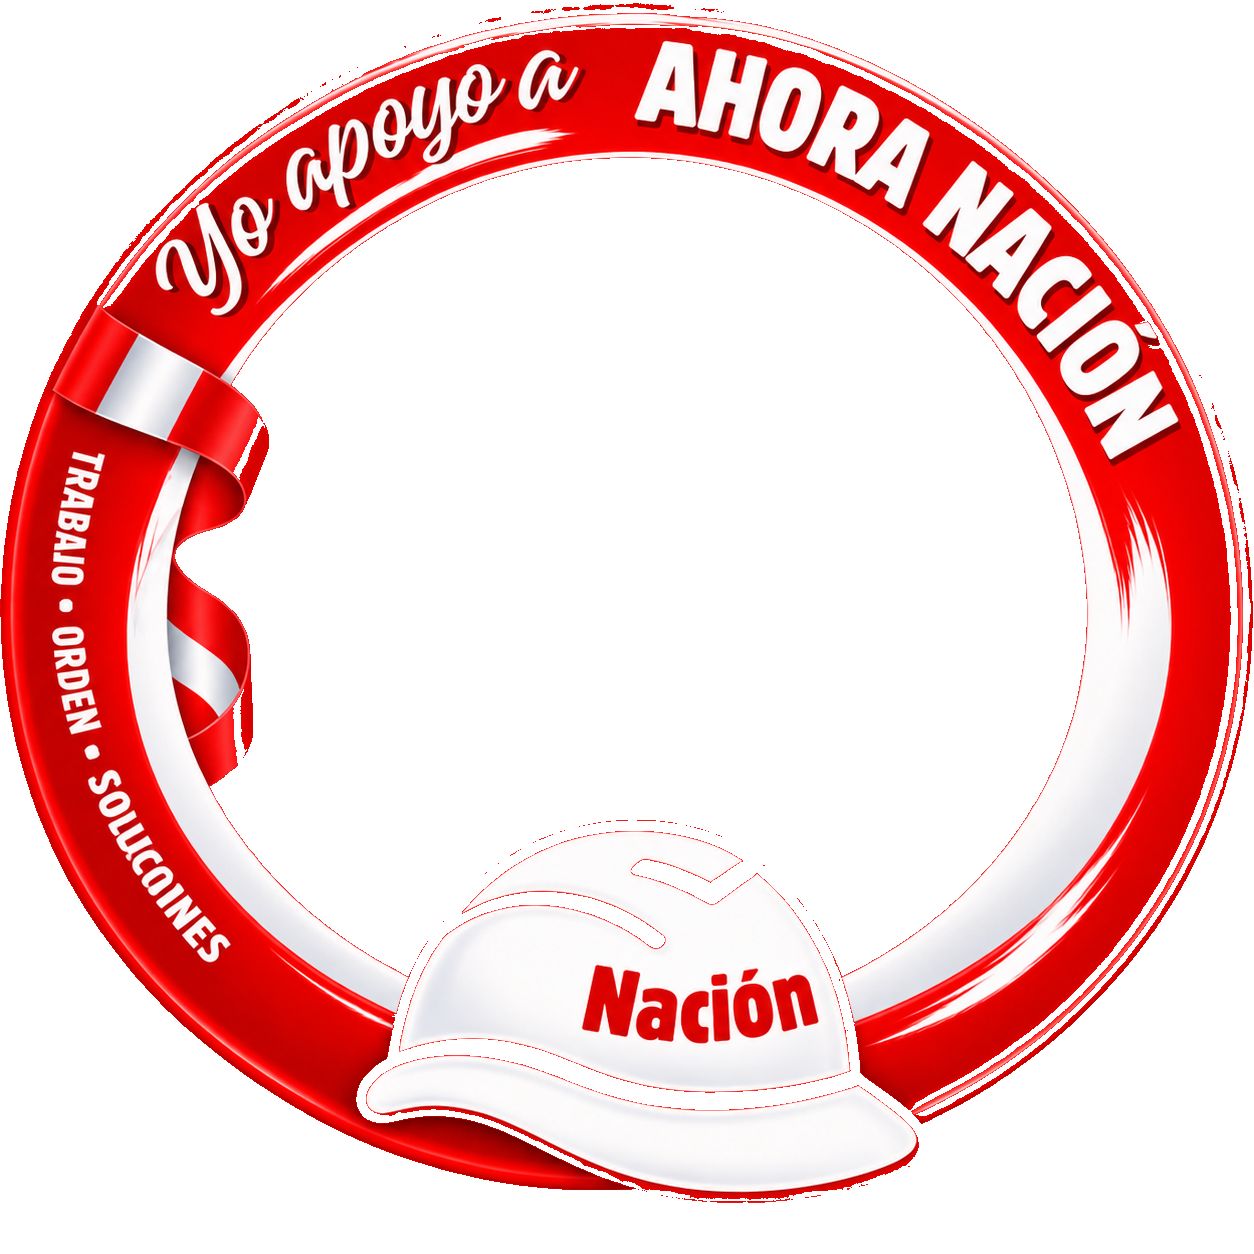
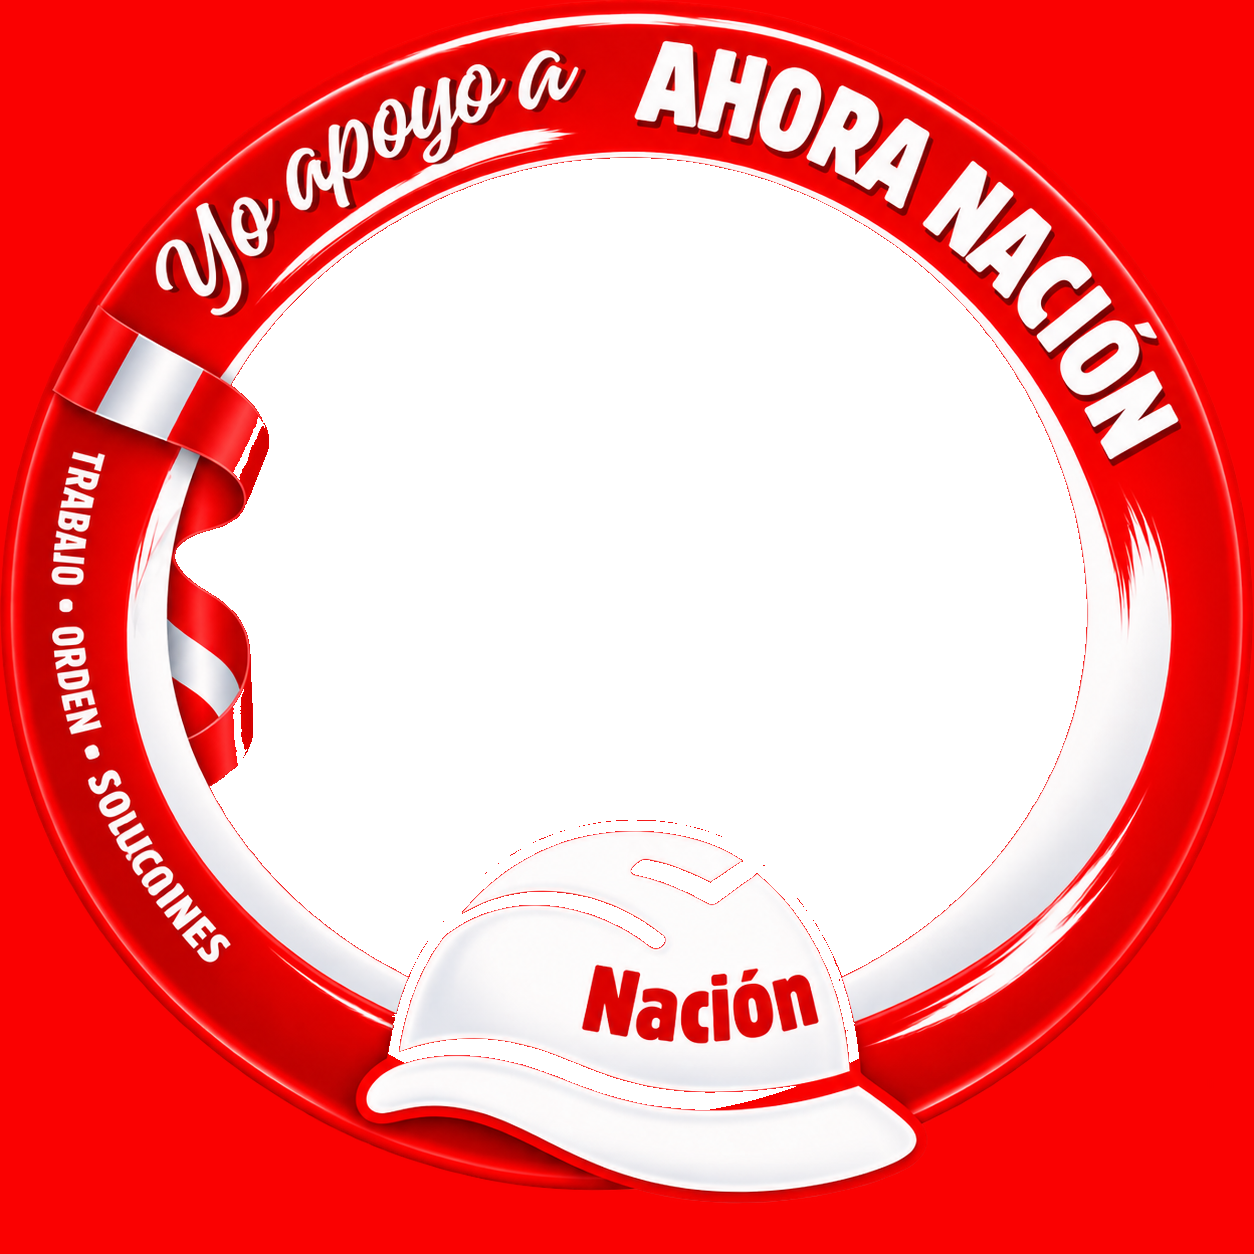
feat(mi-foto): fondo rojo sólido en el Marco Oficial y en el Aro
- marco_oficial.png: solo el hueco central es transparente; el exterior conserva
  el rojo del diseño y se elimina la fuga entre la visera del casco y el anillo.
- Estilo Aro: relleno rojo (mismo tono) detrás del anillo en vez de esquinas transparentes.

Claude-Session: https://claude.ai/code/session_01BEN7DVwjGLaHH7kMC6ETgw

Changed region(s): [[0.0, 0.0, 1.0, 1.0]]

diff --git a/src/app/mi-foto/PhotoFrameClient.tsx b/src/app/mi-foto/PhotoFrameClient.tsx
@@ -4,11 +4,10 @@ import Link from "next/link";
 import { useCallback, useEffect, useRef, useState } from "react";
 import "./mi-foto.css";
 
-// Marco oficial (PNG 1254×1254 con centro transparente; derivado de public/perfil_usaurio_oficial.png,
-// que viene con fondo rojo plano sin alfa). La foto se recorta a un círculo de radio
-// OFFICIAL_FRAME_CLIP·ancho: debe quedar por encima del hueco interior del anillo (máx. 0.375
-// del ancho) y por debajo de su borde exterior más fino (mín. 0.442, bajo el casco) para que
-// no asome ni se vea un hueco entre foto y marco.
+// Marco oficial (PNG 1254×1254, derivado de public/perfil_usaurio_oficial.png): fondo rojo
+// sólido fuera del anillo y solo el hueco central transparente. La foto se recorta a un
+// círculo de radio OFFICIAL_FRAME_CLIP·ancho, por encima del hueco (máx. 0.375 del ancho)
+// para que no quede un borde sin foto; el resto lo cubre el marco.
 const OFFICIAL_FRAME_SRC = "/marco_oficial.png";
 const OFFICIAL_FRAME_CLIP = 0.44;
 
@@ -27,6 +26,8 @@ const ZOOM_MAX = 3;
 const PAN_SLACK = SIZE * 0.22;
 
 const RED = "#e90305";
+// Rojo de fondo del Marco Oficial (public/marco_oficial.png), reutilizado en el Aro.
+const BG_RED = "#fa0101";
 const RED_DEEP = "#9f0408";
 const YELLOW = "#ffd400";
 const NAVY = "#0b141f";
@@ -326,6 +327,14 @@ export default function PhotoFrameClient() {
       ctx.beginPath();
       ctx.arc(w / 2, w / 2, w / 2, 0, Math.PI * 2);
       ctx.fill();
+      ctx.restore();
+    }
+    if (style === "ring") {
+      // El Aro lleva fondo rojo sólido fuera del anillo (mismo rojo que el Marco Oficial).
+      ctx.save();
+      ctx.globalCompositeOperation = "destination-over";
+      ctx.fillStyle = BG_RED;
+      ctx.fillRect(0, 0, w, w);
       ctx.restore();
     }
     // eslint-disable-next-line react-hooks/exhaustive-deps
